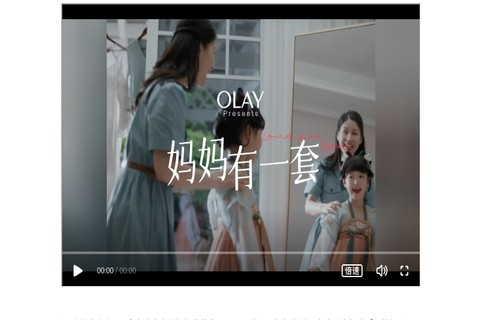
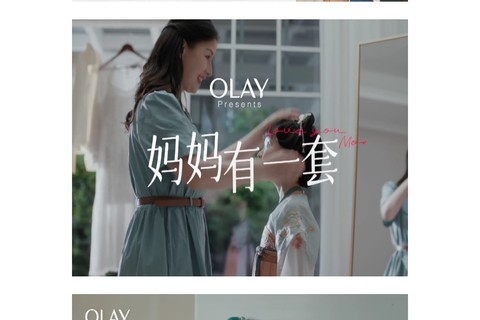
Fix OLAY + 韩束 images + redesign P3b layout
- OLAY: clean brand KV "妈妈有一套" (no video player UI)
- 韩束: red gift box product shot from KANS official
- P3b: two-column layout (left: 6-year timeline, right: conclusion)
- Fixed "兰蔻不屑做" → structural explanation of why competitors can't

diff --git a/projects/proya-2026/index.html b/projects/proya-2026/index.html
@@ -301,24 +301,39 @@ td { padding:10px 12px; border-bottom:1px solid rgba(90,138,184,0.1); }
 
 <!-- P3b 珀莱雅的位置 -->
 <div class="slide slide-data" data-page="3b">
-  <div class="content" style="max-width:800px;">
-    <h2 style="color:#A8C8E8; margin-bottom:8px;">礼遇洞察</h2>
-    <h3 style="color:#E8A0B8; font-family:'Noto Serif SC',serif; font-weight:300; font-size:28px; margin-bottom:36px;">珀莱雅的不可替代性</h3>
-    <div style="margin-bottom:28px;">
-      <p style="color:#B8C8D8; font-size:15px; line-height:2; margin-bottom:20px;">六年议题资产：性别不是边界线 → 仅妈妈可见 → 世上不止妈妈好 → 妈怎么做听她的</p>
-      <p style="color:#D4E6F8; font-size:17px; font-weight:500; margin-bottom:20px;">唯一一个消费者会主动期待<br>「今年母亲节你说了什么」的美妆品牌。</p>
-      <p style="color:#B8C8D8; font-size:15px;">这个期待本身就是壁垒——韩束做不了，兰蔻不屑做，OLAY 没积累。</p>
-    </div>
-    <div style="background:rgba(232,160,184,0.08); border:1px solid rgba(232,160,184,0.15); border-radius:12px; padding:24px; margin-bottom:28px;">
-      <p style="color:#E8A0B8; font-size:14px; margin-bottom:8px;">2025 已有验证</p>
-      <p style="color:#D4E6F8; font-size:16px;">「心意成花送给妈妈」小红书曝光 <span style="color:#E8A0B8; font-weight:700; font-size:24px;">1.7 亿</span></p>
-    </div>
-    <div style="border-top:1px solid rgba(168,200,232,0.15); padding-top:24px;">
-      <p style="font-family:'Noto Serif SC',serif; color:#D4E6F8; font-size:18px; line-height:2.2; letter-spacing:1px;">
-        从「替妈妈说话」到「为妈妈送出美好」。<br>
-        从「好用」到「好送」。<br>
-        <span style="color:#7BA7D4; font-weight:500;">每多定义一种妈妈，就多打开一个人群入口。</span>
-      </p>
+  <div class="content-wide">
+    <div class="two-col" style="gap:60px; align-items:start;">
+      <!-- 左栏：六年积累 -->
+      <div>
+        <h2 style="color:#A8C8E8; margin-bottom:24px;">珀莱雅的不可替代性</h2>
+        <div style="border-left:3px solid #E8A0B8; padding-left:20px; margin-bottom:28px;">
+          <p style="color:#B8C8D8; font-size:13px; margin-bottom:4px;">2021 妇女节</p>
+          <p style="color:#D4E6F8; font-size:15px; margin-bottom:16px;">性别不是边界线，偏见才是</p>
+          <p style="color:#B8C8D8; font-size:13px; margin-bottom:4px;">2022 母亲节</p>
+          <p style="color:#D4E6F8; font-size:15px; margin-bottom:16px;">仅妈妈可见 → <span style="color:#8898AA;">揭示</span></p>
+          <p style="color:#B8C8D8; font-size:13px; margin-bottom:4px;">2023 母亲节</p>
+          <p style="color:#D4E6F8; font-size:15px; margin-bottom:16px;">世上不止妈妈好 → <span style="color:#8898AA;">解构</span></p>
+          <p style="color:#B8C8D8; font-size:13px; margin-bottom:4px;">2024 母亲节</p>
+          <p style="color:#D4E6F8; font-size:15px; margin-bottom:16px;">妈怎么做，听她的 → <span style="color:#8898AA;">赋权</span></p>
+          <p style="color:#E8A0B8; font-size:13px; margin-bottom:4px;">2025 母亲节</p>
+          <p style="color:#E8A0B8; font-size:15px; font-weight:500;">心意成花送给妈妈 · 小红书曝光 1.7 亿</p>
+        </div>
+        <p style="color:#8898AA; font-size:13px;">六年持续投入，无法速成，也无法复制。</p>
+      </div>
+      <!-- 右栏：结论 -->
+      <div>
+        <div style="margin-bottom:32px; margin-top:40px;">
+          <p style="color:#D4E6F8; font-size:20px; font-weight:500; line-height:1.8; margin-bottom:20px;">唯一一个消费者会主动期待<br>「今年母亲节你说了什么」<br>的美妆品牌。</p>
+          <p style="color:#B8C8D8; font-size:14px; line-height:1.8;">这个期待本身就是壁垒——<br>韩束没有议题积累，OLAY 没有价值观 IP，<br>国际品牌不做本土社会议题。<br>只有珀莱雅，有六年的叙事资产可以承接。</p>
+        </div>
+        <div style="border-top:1px solid rgba(168,200,232,0.15); padding-top:24px;">
+          <p style="font-family:'Noto Serif SC',serif; color:#D4E6F8; font-size:17px; line-height:2.2; letter-spacing:1px;">
+            从「替妈妈说话」到「为妈妈送出美好」。<br>
+            从「好用」到「好送」。<br>
+            <span style="color:#7BA7D4; font-weight:500;">每多定义一种妈妈，就多打开一个人群入口。</span>
+          </p>
+        </div>
+      </div>
     </div>
   </div>
 </div>
